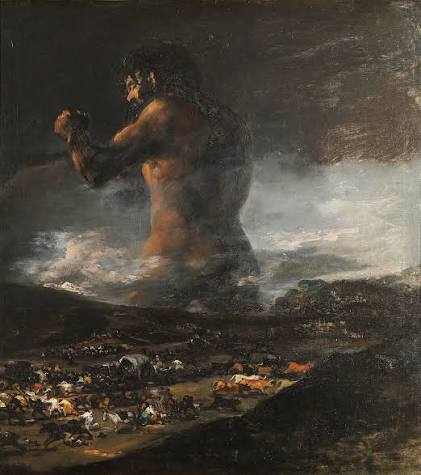
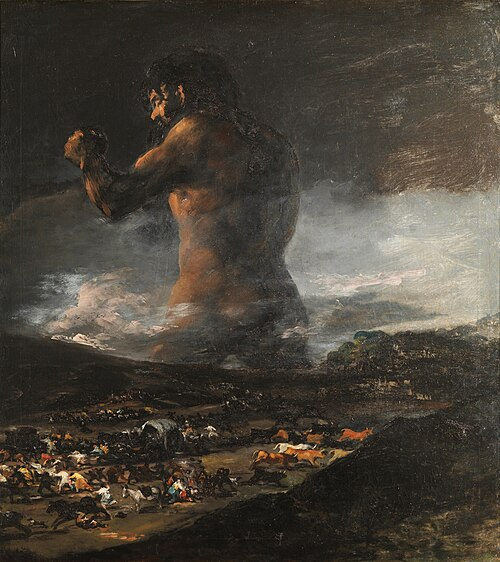
Show lightbox images at natural size to avoid upscaling blur
Also update The Colossus with a higher-res image.

diff --git a/armaan-singla-portfolio-main/src/pages/Art.tsx b/armaan-singla-portfolio-main/src/pages/Art.tsx
@@ -77,7 +77,7 @@ const Art = () => {
               <img
                 src={open.src}
                 alt={`${open.title} by ${open.artist}`}
-                className="max-h-[80vh] w-full rounded-sm object-contain"
+                className="max-h-[80vh] w-auto max-w-full rounded-sm object-contain"
               />
               <figcaption className="mt-4 text-center">
                 <DialogTitle className="text-xl font-normal italic">
